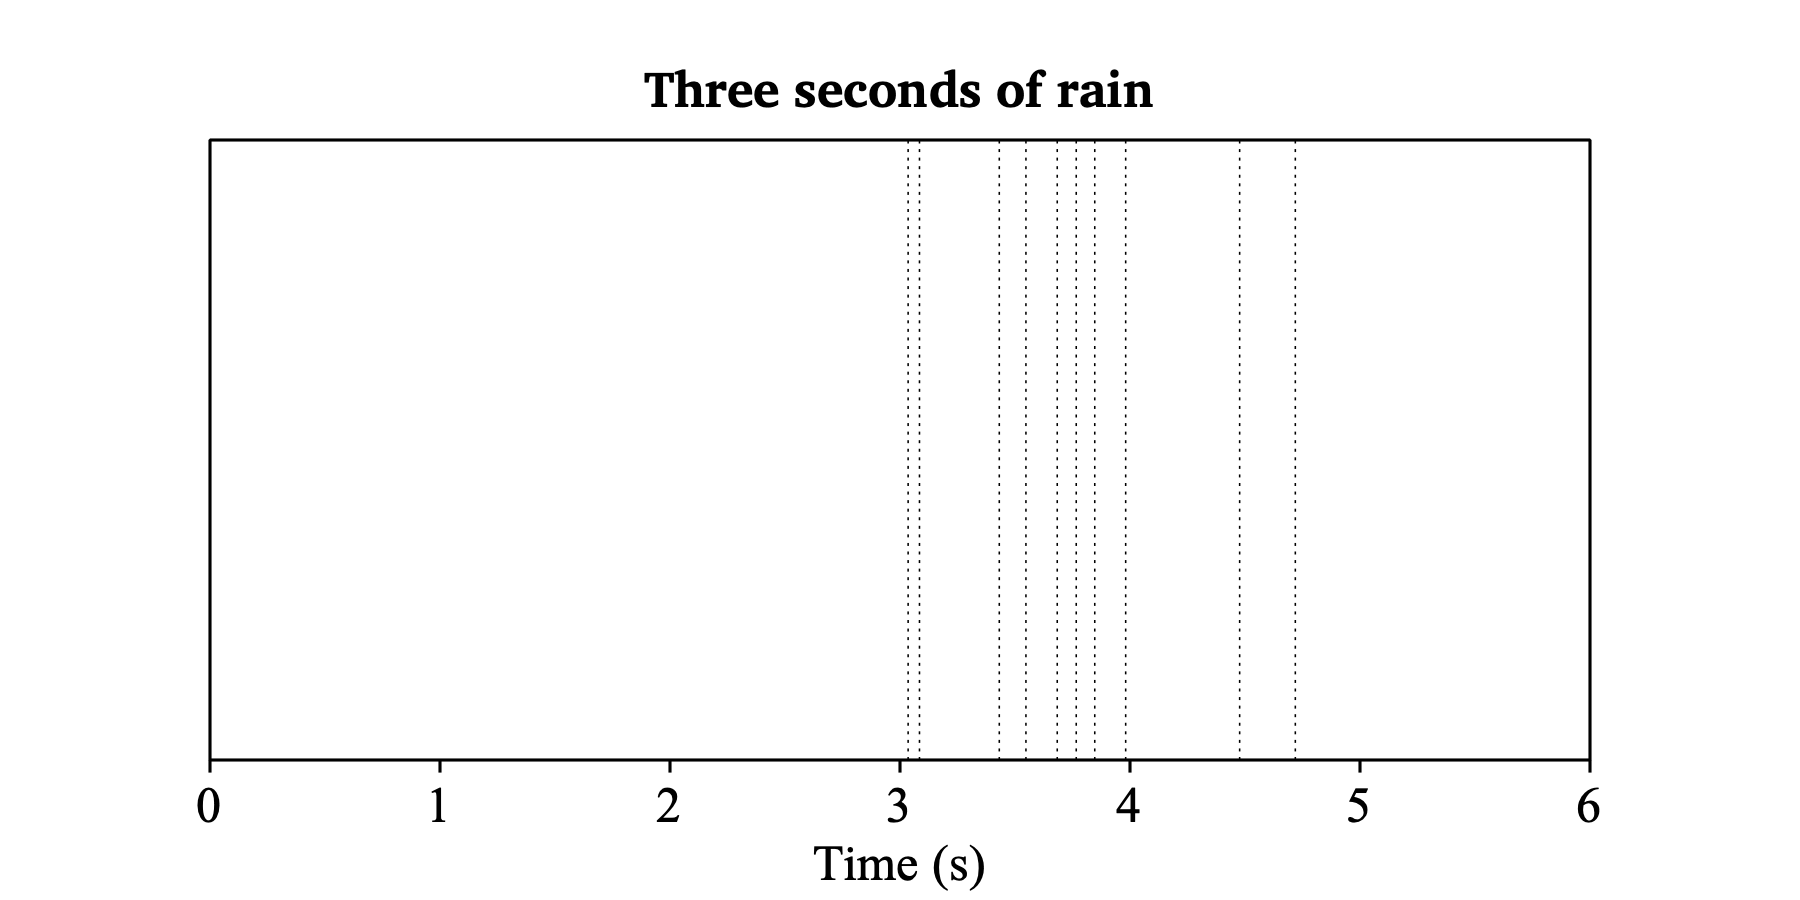
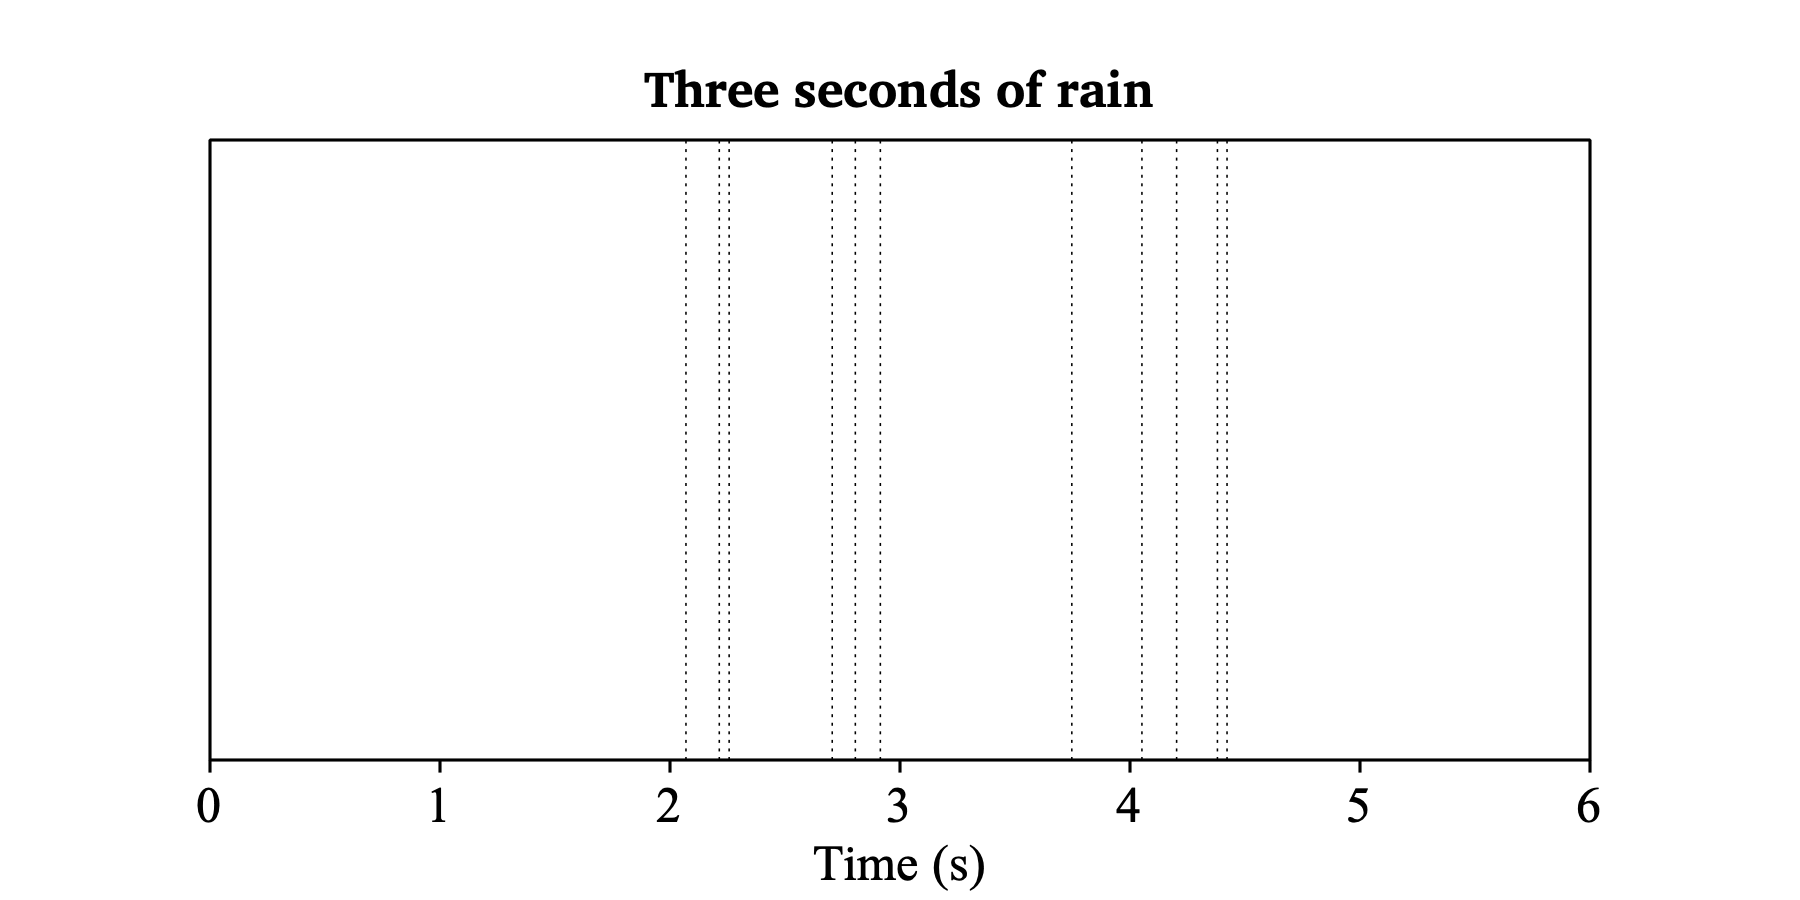
sources for version 6.4.66

diff --git a/docs/manual/_randomImax_.html b/docs/manual/_randomImax_.html
@@ -26,23 +26,23 @@ randomImax
 <code style="color:red">=&gt;</code><br>
 <code>   1<br></code>
 <code>   1<br></code>
-<code>   1<br></code>
-<code>   3<br></code>
-<code>   1<br></code>
-<code>   1<br></code>
-<code>   1<br></code>
 <code>   2<br></code>
-<code>   3<br></code>
-<code>   3<br></code>
-<code>   3<br></code>
-<code>   3<br></code>
 <code>   1<br></code>
-<code>   2<br></code>
+<code>   3<br></code>
 <code>   2<br></code>
 <code>   1<br></code>
 <code>   3<br></code>
 <code>   1<br></code>
+<code>   3<br></code>
+<code>   2<br></code>
+<code>   3<br></code>
 <code>   1<br></code>
+<code>   1<br></code>
+<code>   1<br></code>
+<code>   3<br></code>
+<code>   1<br></code>
+<code>   3<br></code>
+<code>   3<br></code>
 <code>   3<br></code>
 <p>All elements of the vector have to be non-negative:</p>
 <code>   <a href="_asserterror_.html">asserterror</a> Element 2 is less than zero; cannot interpret as a probability.<br></code>
@@ -53,11 +53,6 @@ randomImax
 <code>       <a href="_appendInfoLine_.html">appendInfoLine</a>: outcome<br></code>
 <code>   endfor<br></code>
 <code style="color:red">=&gt;</code><br>
-<code>   3<br></code>
-<code>   1<br></code>
-<code>   1<br></code>
-<code>   1<br></code>
-<code>   1<br></code>
 <code>   1<br></code>
 <code>   3<br></code>
 <code>   1<br></code>
@@ -66,13 +61,18 @@ randomImax
 <code>   3<br></code>
 <code>   1<br></code>
 <code>   1<br></code>
-<code>   1<br></code>
+<code>   3<br></code>
+<code>   3<br></code>
+<code>   3<br></code>
+<code>   3<br></code>
 <code>   3<br></code>
 <code>   1<br></code>
 <code>   3<br></code>
-<code>   3<br></code>
+<code>   1<br></code>
 <code>   1<br></code>
 <code>   3<br></code>
+<code>   1<br></code>
+<code>   1<br></code>
 <p>Not all elements of the vector can be zero:</p>
 <code>   <a href="_asserterror_.html">asserterror</a> Cannot interpret a zero vector as probabilities.<br></code>
 <code>   a = <b>randomImax</b> ({ 0.0, 0.0, 0.0 })<br></code>

diff --git a/docs/manual/What_s_new_.html b/docs/manual/What_s_new_.html
@@ -12,6 +12,13 @@
 What's new?
 </b></font></table></table>
 <p>Latest changes in Praat.</p>
+<p><b>6.4.66</b> (18 May 2026)</p>
+<dl>
+<dd style="position:relative;padding-left:1em;text-indent:-2em">&#8226; Much faster automatic transcription on Windows and Linux.</dd>
+<dd style="position:relative;padding-left:1em;text-indent:-2em">&#8226; Standalone diarization.</dd>
+<dd style="position:relative;padding-left:1em;text-indent:-2em">&#8226; Corrected a crash in sorting an Eigen object (could affect discriminant analysis).</dd>
+<dd style="position:relative;padding-left:1em;text-indent:-2em">&#8226; Removed a bug introduced in 6.4.52 by which running a log script in the Sound window would stop any pending pause window.</dd>
+</dl>
 <p><b>6.4.65</b> (24 April 2026)</p>
 <dl>
 <dd style="position:relative;padding-left:1em;text-indent:-2em">&#8226; Fixed a bug that could lead to a &#8220;Text is not valid UTF-8&#8221; error message in automatic transcription.</dd>

diff --git a/docs/manual/Scripting_6_5__Calling_system_commands.html b/docs/manual/Scripting_6_5__Calling_system_commands.html
@@ -49,11 +49,11 @@ Scripting 6.5. Calling system commands
 <code>   time = <b><a href="_stopwatch_.html">stopwatch</a></b><br></code>
 <code>   <a href="_writeInfoLine_.html">writeInfoLine</a>: a, " ", fixed$ (time, 3)<br></code>
 <code style="color:red">=&gt;</code><br>
-<code>   1.23456789e+123 0.030<br></code>
+<code>   1.23456789e+123 0.028<br></code>
 <p>How many nanoseconds is that per assignment?</p>
 <code>   <a href="_writeInfoLine_.html">writeInfoLine</a>: round (time / 100000 * 1e9)<br></code>
 <code style="color:red">=&gt;</code><br>
-<code>   298<br></code>
+<code>   283<br></code>
 <h3>Links to this page</h3>
 <ul>
 <li><a href="_runSubprocess-S_.html"><code><font size=+1>runSubprocess$</font></code></a>

diff --git a/docs/manual/_clock_.html b/docs/manual/_clock_.html
@@ -23,14 +23,14 @@ clock
 <code>   endfor<br></code>
 <code>   <a href="_appendInfoLine_.html">appendInfoLine</a>: "Time elapsed: ", <b>clock</b>() - t, " seconds"<br></code>
 <code style="color:red">=&gt;</code><br>
-<code>   Time elapsed: 0.00012808293104171753 seconds<br></code>
+<code>   Time elapsed: 0.00012562517076730728 seconds<br></code>
 <code>   t = <b>clock</b>()<br></code>
 <code>   for i to 1000<br></code>
 <code>   endfor<br></code>
 <code>   timeElapsed = <b>clock</b>() - t<br></code>
 <code>   <a href="_appendInfoLine_.html">appendInfoLine</a>: "Time elapsed: ", <a href="_fixed-S_.html">fixed$</a> (1000 * timeElapsed, 3), " ms"<br></code>
 <code style="color:red">=&gt;</code><br>
-<code>   Time elapsed: 0.137 ms<br></code>
+<code>   Time elapsed: 0.123 ms<br></code>
 <h3>Links to this page</h3>
 <ul>
 <li><a href="Functions.html">Functions</a>

diff --git a/docs/manual/_date-H_.html b/docs/manual/_date-H_.html
@@ -19,7 +19,7 @@ date#
 </dl>
 <code>   writeInfoLine: date# ()<br></code>
 <code style="color:red">=&gt;</code><br>
-<code>   2026 5 18 12 50 44<br></code>
+<code>   2026 5 18 23 35 38<br></code>
 <h3>Links to this page</h3>
 <ul>
 <li><a href="Functions.html">Functions</a>

diff --git a/docs/manual/_date-S_.html b/docs/manual/_date-S_.html
@@ -19,7 +19,7 @@ date$
 </dl>
 <code>   writeInfoLine: date$ ()<br></code>
 <code style="color:red">=&gt;</code><br>
-<code>   Mon May 18 12:50:44 2026<br></code>
+<code>   Mon May 18 23:35:38 2026<br></code>
 <h3>Links to this page</h3>
 <ul>
 <li><a href="Functions.html">Functions</a>

diff --git a/docs/manual/_date_iso-S_.html b/docs/manual/_date_iso-S_.html
@@ -19,7 +19,7 @@ date_iso$
 </dl>
 <code>   writeInfoLine: date_iso$ ()<br></code>
 <code style="color:red">=&gt;</code><br>
-<code>   2026-05-18T12:50:44+02:00<br></code>
+<code>   2026-05-18T23:35:38+02:00<br></code>
 <h3>Links to this page</h3>
 <ul>
 <li><a href="Functions.html">Functions</a>

diff --git a/docs/manual/_date_utc-H_.html b/docs/manual/_date_utc-H_.html
@@ -19,7 +19,7 @@ date_utc#
 </dl>
 <code>   writeInfoLine: date_utc# ()<br></code>
 <code style="color:red">=&gt;</code><br>
-<code>   2026 5 18 10 50 44<br></code>
+<code>   2026 5 18 21 35 38<br></code>
 <h3>Links to this page</h3>
 <ul>
 <li><a href="Functions.html">Functions</a>

diff --git a/docs/manual/_date_utc-S_.html b/docs/manual/_date_utc-S_.html
@@ -19,7 +19,7 @@ date_utc$
 </dl>
 <code>   writeInfoLine: date_utc$ ()<br></code>
 <code style="color:red">=&gt;</code><br>
-<code>   Mon May 18 10:50:44 2026<br></code>
+<code>   Mon May 18 21:35:38 2026<br></code>
 <h3>Links to this page</h3>
 <ul>
 <li><a href="Functions.html">Functions</a>

diff --git a/docs/manual/_date_utc_iso-S_.html b/docs/manual/_date_utc_iso-S_.html
@@ -19,7 +19,7 @@ date_utc_iso$
 </dl>
 <code>   writeInfoLine: date_utc_iso$ ()<br></code>
 <code style="color:red">=&gt;</code><br>
-<code>   2026-05-18T10:50:44Z<br></code>
+<code>   2026-05-18T21:35:38Z<br></code>
 <h3>Links to this page</h3>
 <ul>
 <li><a href="Functions.html">Functions</a>

diff --git a/docs/manual/energy_integration_continuity_test.html b/docs/manual/energy_integration_continuity_test.html
@@ -154,7 +154,7 @@ energy integration continuity test
 <code>   97 4.406692478671509e-06 6.241608416314356e-11<br></code>
 <code>   98 4.406754894755672e-06 6.241608416314356e-11<br></code>
 <code>   99 4.406817310839835e-06 6.241608416314356e-11<br></code>
-<code>   ## time elapsed: 87.386 ms<br></code>
+<code>   ## time elapsed: 84.463 ms<br></code>
 <hr>
 <address>
 	<p>© Paul Boersma 2025-05-14</p>

diff --git a/fon/manual_whatsnew.cpp b/fon/manual_whatsnew.cpp
@@ -29,6 +29,12 @@ R"~~~(
 
 Latest changes in Praat.
 
+##6.4.66# (18 May 2026)
+• Much faster automatic transcription on Windows and Linux.
+• Standalone diarization.
+• Corrected a crash in sorting an Eigen object (could affect discriminant analysis).
+• Removed a bug introduced in 6.4.52 by which running a log script in the Sound window would stop any pending pause window.
+
 ##6.4.65# (24 April 2026)
 • Fixed a bug that could lead to a “Text is not valid UTF-8” error message in automatic transcription.
 • More windows recognize Command-Q (##Quit Praat#).